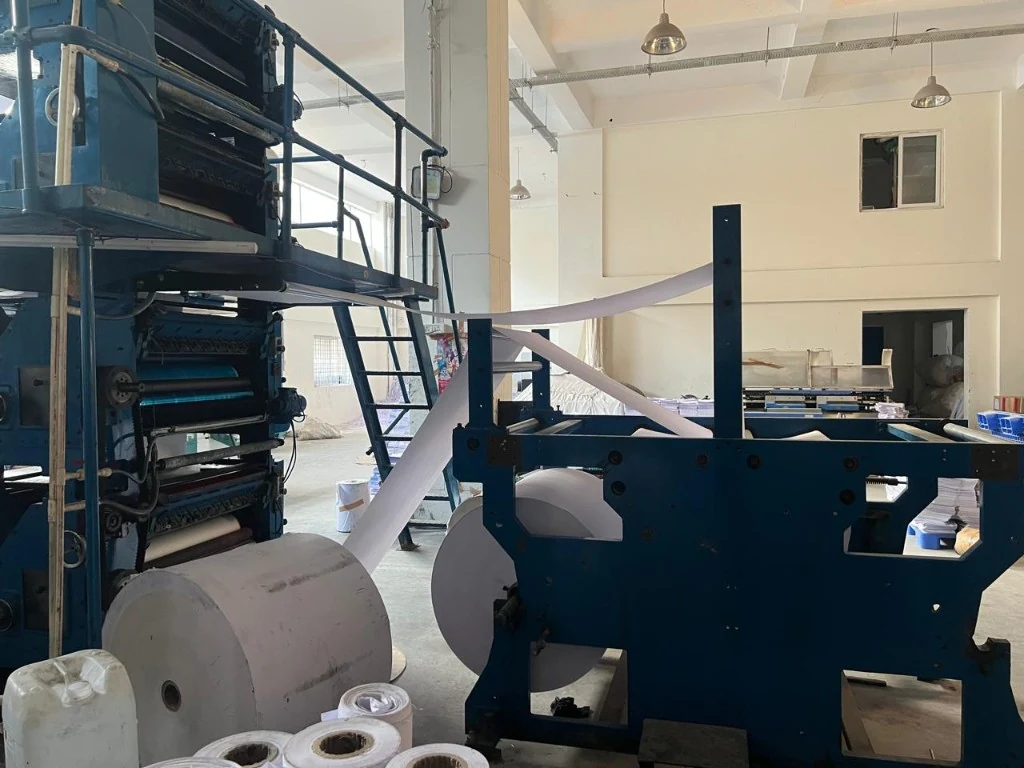
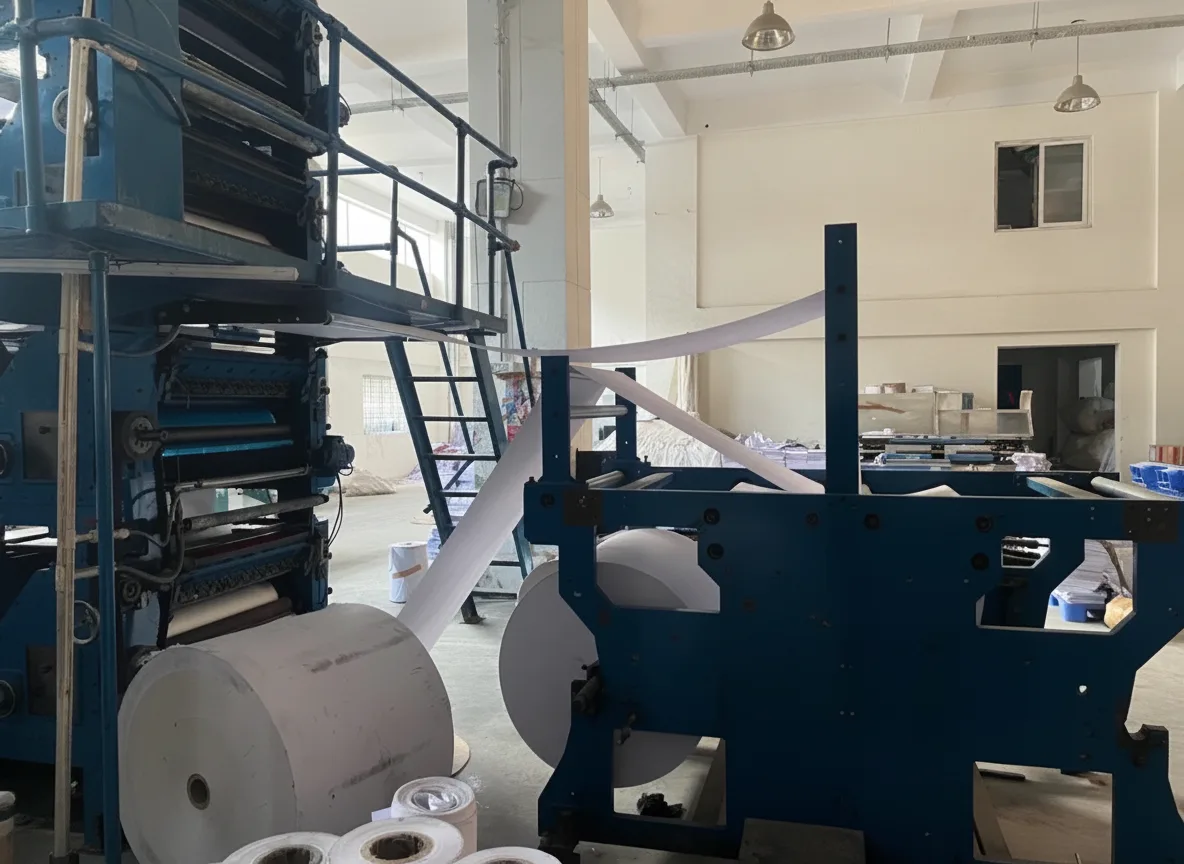
changes

diff --git a/src/app/page.tsx b/src/app/page.tsx
@@ -21,11 +21,13 @@ import { TrustHeroCounters } from "@/components/home/trust-hero-counters";
 import { Button } from "@/components/ui/button";
 import { blogPosts } from "@/lib/blog-posts";
 import { knowledgeCardImage } from "@/lib/knowledge-preview-media";
-import { machineryPlantPhotos } from "@/lib/machinery-plant-photos";
 import { siteImages } from "@/lib/site-images";
 
-/** Hero-side production shot — multi-level web offset (plant imagery). */
-const heroMachineryPhoto = machineryPlantPhotos[2];
+/** Hero-side production shot — NAPH GRAPHICS Koncept web line (cleaned plant photography). */
+const heroMachineryPhoto = {
+  ...siteImages.heroPress,
+  caption: "NAPH GRAPHICS Koncept — 8-colour web line, Hyderabad works",
+};
 
 export const metadata: Metadata = {
   title: {
@@ -96,44 +98,43 @@ export default function HomePage() {
 
   return (
     <div className="bg-background">
-      {/* SECTION 1 — Hero: logo field + copy; plant photography on larger screens */}
-      <section className="relative isolate w-full min-h-[min(100svh,880px)] overflow-hidden bg-[#dce8f4] text-sky-50">
-        <div className="absolute inset-0 overflow-hidden bg-[#dce8f4]">
+      {/* SECTION 1 — Hero: guilloche security pattern + copy; plant photography on larger screens */}
+      <section className="relative isolate w-full min-h-[min(100svh,880px)] overflow-hidden bg-[#0a1430] text-sky-50">
+        <div className="absolute inset-0 overflow-hidden">
           <Image
-            src={siteImages.heroReceptionBackdrop.src}
+            src={siteImages.heroPattern.src}
             alt=""
             fill
-            className="object-contain object-center opacity-[0.38] blur-[6px] contrast-[0.92] sm:opacity-[0.42] sm:blur-[5px] md:blur-[4px]"
+            className="object-cover object-center"
             priority
             sizes="100vw"
             aria-hidden
           />
         </div>
-        {/* Blue-tinted scrims — ties hero to brand navy / sky */}
         <div
-          className="absolute inset-0 bg-primary/22"
-          aria-hidden
-        />
-        <div
-          className="absolute inset-0 bg-gradient-to-r from-[#0a1430]/78 via-[#1a2563]/48 to-[#0a1430]/78"
-          aria-hidden
-        />
-        <div
-          className="absolute inset-0 bg-gradient-to-t from-[#0a1430]/50 via-transparent to-sky-900/20"
-          aria-hidden
-        />
-        <div
-          className="absolute inset-0 bg-gradient-to-br from-sky-400/12 via-transparent to-sky-600/10"
+          className="absolute inset-0 bg-gradient-to-t from-[#0a1430]/60 via-transparent to-transparent"
           aria-hidden
         />
         <div className="relative z-10 mx-auto flex min-h-[min(100svh,880px)] w-full max-w-6xl flex-col justify-center px-4 py-16 sm:px-6 sm:py-20 lg:px-8 lg:py-24">
           <div className="grid w-full min-w-0 items-center gap-10 lg:grid-cols-[minmax(0,1fr)_minmax(260px,400px)] lg:gap-8 xl:grid-cols-[minmax(0,1fr)_minmax(280px,420px)] xl:gap-12">
             <div className="flex min-w-0 justify-center lg:justify-end">
               <div className="w-full max-w-3xl sm:max-w-4xl lg:max-w-[42rem]">
-                <div className="rounded-3xl border border-sky-400/20 bg-gradient-to-br from-slate-950/55 via-[#121c3d]/35 to-primary/20 p-6 shadow-[0_8px_40px_-8px_rgba(8,20,60,0.45)] ring-1 ring-sky-400/10 sm:p-9 lg:p-10 xl:p-11">
-                  <p className="text-center text-xs font-semibold uppercase tracking-[0.22em] text-sky-300 sm:text-sm">
-                    Triple ISO · Hyderabad &amp; Vijayawada
-                  </p>
+                <div className="rounded-3xl border border-sky-400/20 bg-gradient-to-br from-slate-950/55 via-[#121c3d]/35 to-primary/20 p-6 shadow-[0_8px_40px_-8px_rgba(8,20,60,0.45)] ring-1 ring-sky-400/10 backdrop-blur-[2px] sm:p-9 lg:p-10 xl:p-11">
+                  <div className="flex items-center justify-center gap-3">
+                    <span className="flex h-11 w-11 shrink-0 items-center justify-center rounded-xl bg-white/95 p-1.5 shadow-md ring-1 ring-sky-300/40 sm:h-12 sm:w-12">
+                      <Image
+                        src={siteImages.logoMark.src}
+                        alt={siteImages.logoMark.alt}
+                        width={40}
+                        height={40}
+                        className="h-full w-full object-contain"
+                        priority
+                      />
+                    </span>
+                    <p className="text-xs font-semibold uppercase tracking-[0.22em] text-sky-300 sm:text-sm">
+                      Triple ISO · Hyderabad &amp; Vijayawada
+                    </p>
+                  </div>
                   <h1 className="mt-4 text-balance bg-gradient-to-br from-white via-sky-100 to-sky-300 bg-clip-text text-center text-3xl font-medium leading-[1.18] tracking-[-0.02em] text-transparent sm:text-4xl md:text-5xl lg:text-[2.85rem] lg:leading-[1.1]">
                     India&apos;s trusted security printing partner — since 1997
                   </h1>

diff --git a/src/app/contact/page.tsx b/src/app/contact/page.tsx
@@ -49,37 +49,33 @@ const whyPoints = [
 export default function ContactPage() {
   return (
     <div className="bg-background">
-      <section className="relative w-full overflow-hidden border-b border-border">
-        <div className="relative mx-auto max-w-6xl px-4 pb-10 pt-12 sm:px-6 sm:pb-12 sm:pt-14 lg:px-8">
-          <div className="pointer-events-none absolute inset-x-0 top-0 z-0 h-40 overflow-hidden rounded-b-2xl sm:h-48">
-            <Image
-              src={siteImages.heroFacility.src}
-              alt=""
-              fill
-              className="object-cover object-center opacity-40"
-              sizes="100vw"
-              aria-hidden
-            />
-            <div
-              className="absolute inset-0 bg-gradient-to-b from-background/20 via-background/85 to-background"
-              aria-hidden
-            />
-          </div>
-          <div className="relative z-10">
-            <h1 className="text-center text-3xl font-bold text-primary sm:text-4xl">
-              Contact Us
-            </h1>
-            <p className="mx-auto mt-3 max-w-2xl text-center text-muted-foreground">
-              Reach our Hyderabad or Vijayawada office by phone or email for site
-              visits and support.
-            </p>
-          </div>
+      <section className="relative w-full overflow-hidden bg-primary text-white">
+        <div className="absolute inset-0 opacity-25">
+          <Image
+            src={siteImages.heroFacility.src}
+            alt=""
+            fill
+            className="object-cover object-center"
+            sizes="100vw"
+            priority
+            aria-hidden
+          />
+        </div>
+        <div className="absolute inset-0 bg-primary/80" aria-hidden />
+        <div className="relative mx-auto max-w-6xl px-4 py-12 sm:px-6 sm:py-16 lg:px-8">
+          <h1 className="text-center text-3xl font-bold tracking-tight sm:text-4xl md:text-5xl">
+            Contact Us
+          </h1>
+          <p className="mx-auto mt-4 max-w-2xl text-center text-lg text-white/90">
+            Reach our Hyderabad or Vijayawada office by phone or email for site
+            visits and support.
+          </p>
         </div>
       </section>
 
       {/* SECTION 1 — Office cards */}
-      <section className="mx-auto max-w-6xl px-4 pb-12 sm:px-6 lg:px-8 lg:pb-16">
-        <div className="mt-2 grid grid-cols-1 gap-8 lg:grid-cols-2">
+      <section className="mx-auto max-w-6xl px-4 py-12 sm:px-6 lg:px-8 lg:py-16">
+        <div className="grid grid-cols-1 gap-8 lg:grid-cols-2">
           <article className="flex flex-col rounded-xl border border-primary/10 bg-white p-6 shadow-sm sm:p-8">
             <h2 className="text-lg font-bold text-primary sm:text-xl">
               Hyderabad Office &amp; Works
@@ -188,7 +184,7 @@ export default function ContactPage() {
                 <p className="mb-3 text-sm font-semibold text-primary">
                   {m.title}
                 </p>
-                <div className="min-w-0 overflow-hidden rounded-xl border border-primary/10 bg-white shadow-sm ring-1 ring-black/5">
+                <div className="min-w-0 overflow-hidden rounded-xl border border-primary/10 bg-muted shadow-sm ring-1 ring-black/5">
                   <iframe
                     title={m.title}
                     src={m.src}

diff --git a/src/components/products/ProductTemplate.tsx b/src/components/products/ProductTemplate.tsx
@@ -63,11 +63,36 @@ function SectorPill({ sector }: { sector: SectorTag }) {
   );
 }
 
+const processSteps = [
+  {
+    step: "Design",
+    detail:
+      "Approved artwork and specifications are locked in with your security checklist before anything moves to production.",
+  },
+  {
+    step: "Pre-press",
+    detail:
+      "Plates, serial ranges, and variable data are prepared in access-controlled pre-press rooms with dual verification.",
+  },
+  {
+    step: "Printing",
+    detail:
+      "Runs execute on a CCTV-monitored floor with single entry/exit, biometric access, and no mobile phones in the print area.",
+  },
+  {
+    step: "Quality Check → Dispatch",
+    detail:
+      "Counted, verified sets are sealed in tamper-evident packets and dispatched in DCM closed vehicles with audit-ready records.",
+  },
+] as const;
+
 function ProcessStep({
   step,
+  detail,
   index,
 }: {
   step: string;
+  detail: string;
   index: number;
 }) {
   return (
@@ -78,7 +103,7 @@ function ProcessStep({
       <div className="min-w-0">
         <p className="text-base font-semibold text-primary">{step}</p>
         <p className="mt-1 text-sm leading-relaxed text-muted-foreground">
-          Secure workflow aligned to institutional compliance requirements.
+          {detail}
         </p>
       </div>
     </div>
@@ -175,10 +200,9 @@ export function ProductTemplate({ product }: { product: ProductData }) {
                 Our Process
               </h2>
               <div className="mt-6 space-y-5">
-                <ProcessStep step="Design" index={0} />
-                <ProcessStep step="Pre-press" index={1} />
-                <ProcessStep step="Printing" index={2} />
-                <ProcessStep step="Quality Check → Dispatch" index={3} />
+                {processSteps.map((p, i) => (
+                  <ProcessStep key={p.step} step={p.step} detail={p.detail} index={i} />
+                ))}
               </div>
             </div>
 
@@ -220,18 +244,7 @@ export function ProductTemplate({ product }: { product: ProductData }) {
           </article>
 
           <aside className="lg:sticky lg:top-24">
-            <div className="space-y-4">
-              <div className="rounded-xl border border-primary/10 bg-white p-5 shadow-sm">
-                <h3 className="text-lg font-bold text-primary">
-                  Request Quote for This Product
-                </h3>
-                <p className="mt-2 text-sm leading-relaxed text-muted-foreground">
-                  Enquiry sent via email with your details pre-filled for the
-                  production team.
-                </p>
-              </div>
-              <ProductQuoteForm productName={product.name} />
-            </div>
+            <ProductQuoteForm productName={product.name} />
           </aside>
         </div>
       </section>

diff --git a/src/components/layout/navbar.tsx b/src/components/layout/navbar.tsx
@@ -171,13 +171,13 @@ export function Navbar() {
         </Link>
 
         <nav
-          className="hidden items-center gap-1 md:flex lg:gap-2"
+          className="hidden items-center gap-0.5 lg:flex lg:gap-1 xl:gap-2"
           aria-label="Main"
         >
           <Link
             href="/"
             className={cn(
-              "rounded-md border-b-2 border-transparent px-3 py-2 text-sm font-medium transition-colors",
+              "whitespace-nowrap rounded-md border-b-2 border-transparent px-2 py-2 text-[13px] font-medium transition-colors xl:px-3 xl:text-sm",
               pathname === "/"
                 ? "border-accent text-primary"
                 : "border-transparent text-foreground/80 hover:bg-muted hover:text-primary"
@@ -201,7 +201,7 @@ export function Navbar() {
                 <Link
                   href={menu.href}
                   className={cn(
-                    "rounded-md border-b-2 border-transparent px-3 py-2 text-sm font-medium transition-colors",
+                    "whitespace-nowrap rounded-md border-b-2 border-transparent px-2 py-2 text-[13px] font-medium transition-colors xl:px-3 xl:text-sm",
                     parentActive
                       ? "border-accent text-primary"
                       : "border-transparent text-foreground/80 hover:bg-muted hover:text-primary"
@@ -281,7 +281,7 @@ export function Navbar() {
           })}
         </nav>
 
-        <div className="flex items-center gap-2 md:hidden">
+        <div className="flex items-center gap-2 lg:hidden">
           <button
             type="button"
             className="inline-flex h-10 w-10 items-center justify-center rounded-md border border-border text-primary"
@@ -298,7 +298,7 @@ export function Navbar() {
       {open ? (
         <div
           id="mobile-nav"
-          className="max-h-[min(75vh,560px)] overflow-y-auto overscroll-y-contain border-t border-border bg-white px-4 py-3 md:hidden"
+          className="max-h-[min(75vh,560px)] overflow-y-auto overscroll-y-contain border-t border-border bg-white px-4 py-3 lg:hidden"
         >
           <div className="flex flex-col gap-2">
             <Link

diff --git a/src/lib/site-images.ts b/src/lib/site-images.ts
@@ -3,10 +3,20 @@
  * Facility exteriors are site photography; other assets may be illustrative or from the company profile.
  */
 export const siteImages = {
-  /** Home hero — corporate logo on neutral field (softened in CSS for readability). */
-  heroReceptionBackdrop: {
-    src: "/images/home/hero-logo-backdrop.png",
-    alt: "V.S. Hitech corporate logo — blue mark on light background",
+  /** Home hero — dark navy guilloche security-print pattern (generated backdrop). */
+  heroPattern: {
+    src: "/images/home/hero-pattern.webp",
+    alt: "",
+  },
+  /** Corporate logo mark with transparent background — for hero and brand accents. */
+  logoMark: {
+    src: "/images/home/logo-mark.png",
+    alt: "V.S. Hitech Security Forms logo mark",
+  },
+  /** Home hero — NAPH GRAPHICS Koncept web line, cleaned plant photography (portrait crop). */
+  heroPress: {
+    src: "/images/home/hero-press.webp",
+    alt: "NAPH GRAPHICS Koncept 8-colour web offset line on the V.S. Hitech production floor",
   },
   /** Street view of the Hyderabad works — used for page heroes and banners. */
   heroFacility: {
@@ -49,11 +59,11 @@ export const siteImages = {
   },
   industryGovernment: {
     src: "/images/industry-government.webp",
-    alt: "Institutional government building representing public-sector document programmes",
+    alt: "Indian government secretariat building with national flag — public-sector document programmes",
   },
   industryCorporate: {
     src: "/images/industry-corporate.webp",
-    alt: "Corporate reports and business printing on a professional workspace",
+    alt: "Boardroom table with bound annual reports and corporate print collateral",
   },
   aboutEstate: {
     src: "/images/facilities/hyderabad-works-main-gate.webp",

diff --git a/src/app/industries/page.tsx b/src/app/industries/page.tsx
@@ -39,18 +39,18 @@ const sectors = [
     label: "Banking & Financial Institutions",
     image: siteImages.industryBanking,
   },
-  // {
-  //   headline: "Reliable Partner for Government Confidential Printing",
-  //   body: "Our triple ISO certification and strict security environment make us the preferred choice for government departments requiring confidential document printing with full audit trails and secure disposal.",
-  //   products: [
-  //     "Government forms",
-  //     "Ballot papers",
-  //     "Identity documents",
-  //     "Official stationery",
-  //   ],
-  //   label: "Government & Public Sector",
-  //   image: siteImages.industryGovernment,
-  // },
+  {
+    headline: "Reliable Partner for Government Confidential Printing",
+    body: "Our triple ISO certification and strict security environment make us the preferred choice for government departments requiring confidential document printing with full audit trails and secure disposal.",
+    products: [
+      "Government forms",
+      "Ballot papers",
+      "Identity documents",
+      "Official stationery",
+    ],
+    label: "Government & Public Sector",
+    image: siteImages.industryGovernment,
+  },
   {
     headline: "End-to-End Print Solutions for Businesses",
     body: "From annual reports and book works to sticker printing and variable data printing, we support corporates with fast, high-quality print runs backed by state-of-the-art machinery.",

diff --git a/src/app/services/page.tsx b/src/app/services/page.tsx
@@ -187,13 +187,12 @@ export default function ServicesPage() {
                         {item.useCase}
                       </p>
                     </div>
-                    <Button
-                      variant="accent"
-                      className="mt-6 w-full sm:w-auto"
-                      asChild
+                    <Link
+                      href="/contact"
+                      className="mt-auto pt-6 text-sm font-semibold text-accent hover:underline"
                     >
-                      <Link href="/contact">Contact us</Link>
-                    </Button>
+                      Get a quote →
+                    </Link>
                   </article>
                 ))}
               </div>

diff --git a/src/components/home/trust-hero-counters.tsx b/src/components/home/trust-hero-counters.tsx
@@ -75,7 +75,7 @@ export function TrustHeroCounters({
       ref={ref}
       className={cn(
         variant === "hero" && centered
-          ? "mt-8 flex flex-col items-center gap-8 sm:mt-10 sm:flex-row sm:flex-wrap sm:justify-center sm:gap-x-10 sm:gap-y-6"
+          ? "mt-8 flex flex-row flex-wrap items-start justify-center gap-x-6 gap-y-5 sm:mt-10 sm:gap-x-10 sm:gap-y-6"
           : variant === "hero"
             ? "mt-8 flex flex-col gap-8 sm:mt-10 sm:flex-row sm:flex-wrap sm:gap-y-4"
             : "mt-10 grid grid-cols-1 gap-6 border-y border-white/15 py-8 sm:grid-cols-3 sm:gap-4 sm:py-10",
